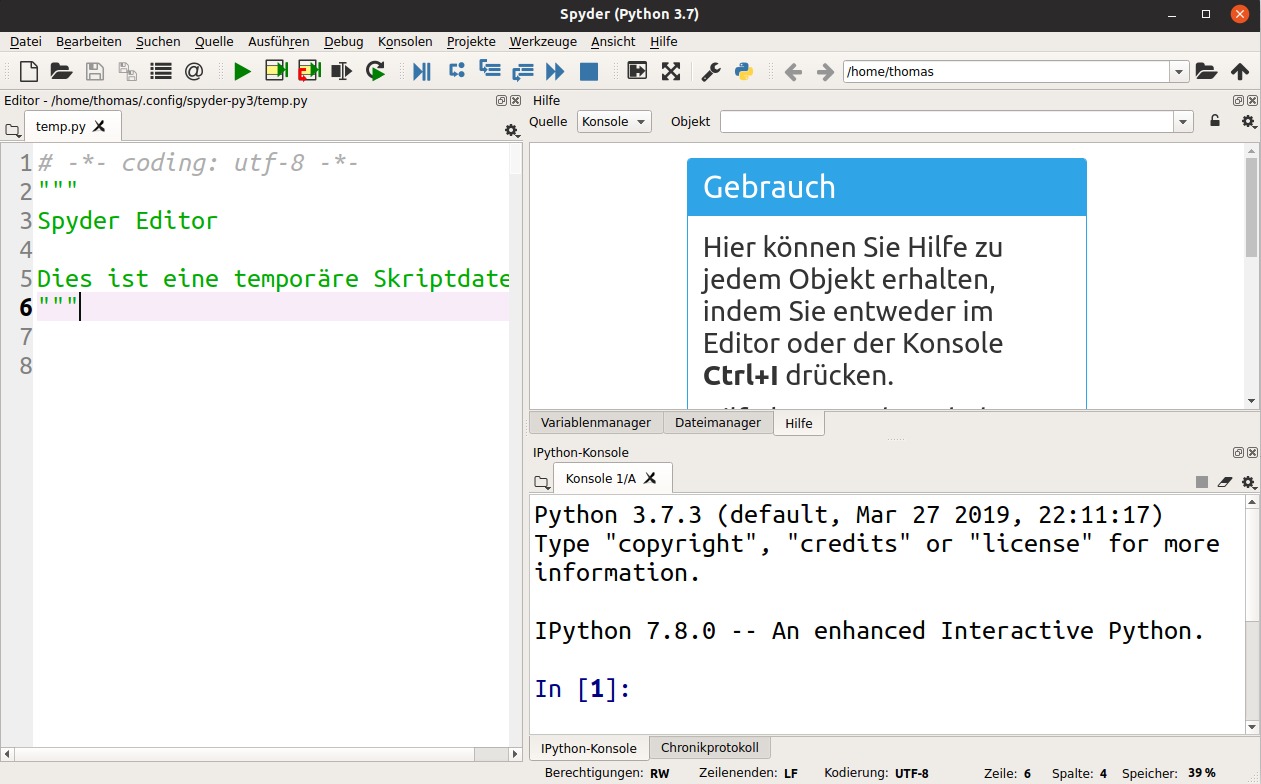
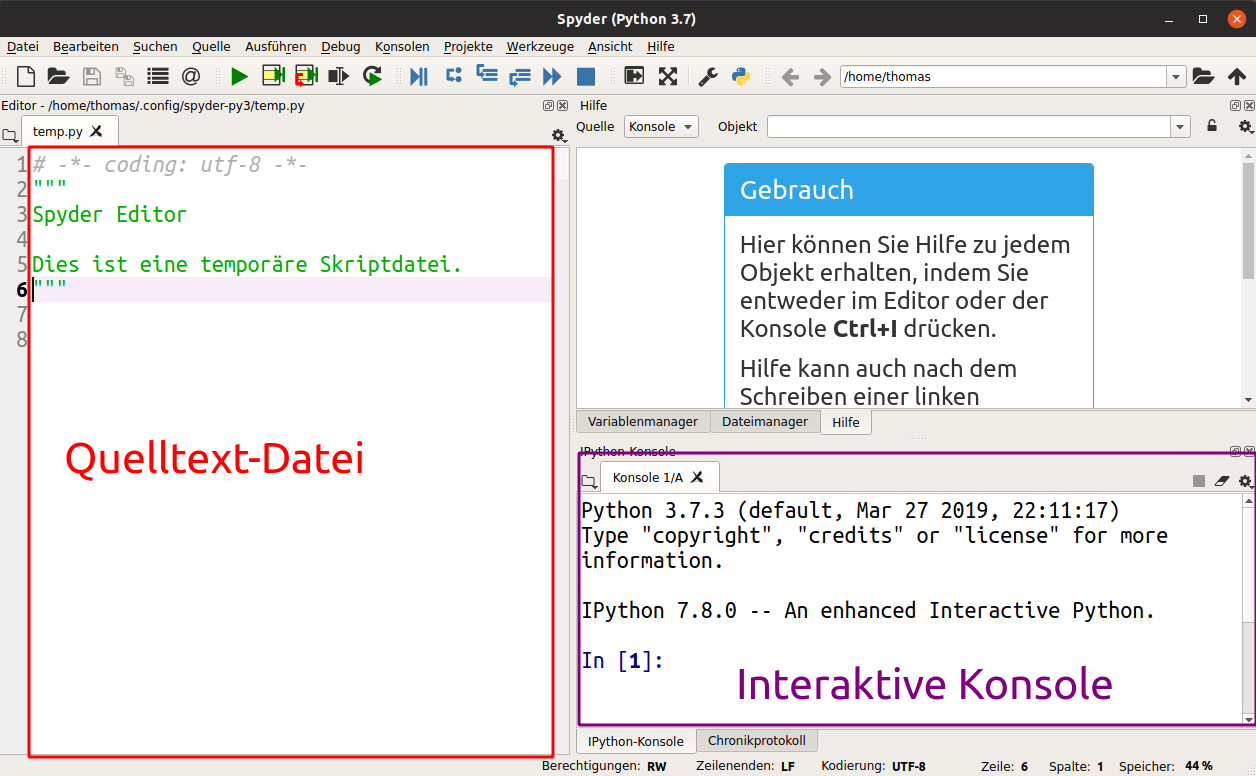
Eigenes Einführungskapitel zum Spyder-Terminal

Changed region(s): [[0.0, 0.0, 1.0, 1.0], [0.621, 0.7732, 0.9626, 0.8351], [0.59, 0.866, 0.9005, 0.8969]]

diff --git a/_episodes/01-spyder-ide-konsole.md b/_episodes/01-spyder-ide-konsole.md
@@ -1,0 +1,68 @@
+---
+title: "Spyder IDE und die Python-Konsle"
+teaching: 30
+exercises: 0
+questions:
+- "Was ist eine IDE?"
+- "Wie kann man Python Code ausführen?"
+objectives:
+- "Starten der Spyder IDE"
+- "Umgang mit der Python-Konsole"
+keypoints:
+- "Einfache Ausdrücke können durch die interaktive Eingabe in der Python-Konsole ausgeführt werden."
+- "Folgen von Anweisungen können in Quelltextdateien abgelegt werden."
+---
+
+## Python IDE starten
+
+Nach der Installation sollten Sie unter unter Windows und Mac OS einen Eintrag "Anaconda Navigator" im Startmenü bzw. im Launchpad haben.
+Unter Linux müssen das Programm `anaconda-navigator` ausführen, z.B. unter Ubuntu mit der Tastenkombination <kbd>Alt</kbd>+<kbd>F12</kbd> und dann `anaconda3/bin/anaconda-navigator`.
+
+Der *Anaconda Navigator* bietet verschiedene Programme zum Starten an, mit denen man Python-Programme entwickeln und ausführen kann. 
+In diesem Kurs wollen wir die Integrierte Entwicklungsumgebung (IDE für "Integrated Development Environment") *Spyder* nutzen.
+Klicken Sie auf "Launch" unter dem Eintrag für Spyder um das Programm zu starten.s
+
+![Spyder starten im Anaconda Navigator](../fig/anaconda-launch.png)
+
+Auf der Linken Seite von Anaconda befindet sich eine Texteditor für Quelltext-Dateien von Python.
+Rechts unten ist ein interaktives Terminal (auch „Konsole“ oder „Kommandozeile“ genannt) platziert.
+
+![Spyder IDE Oberfläche](../fig/spyder-ide.png)
+
+## Python-Terminal
+
+Im Python-Terminal können *einzelne Python-Befehle* ausgeführt und getestet werden.
+Z.B. können Sie die folgende Zeichenketten in die Konsole eintipppen und die Eingabetaste drücken
+
+~~~python
+print("Hello World")
+~~~
+Jeder einzelne Befehl, der mit der Eingabetaste abgeschlossen wird kann eine Ausgabe als Text produzieren, der in dem Terminal angezeigt wird sobald der Befehl abgeschlossen ist. 
+Hier z.B. ist die Ausgabe.
+~~~
+Hello World
+~~~
+{: .output}
+
+> ## Übung
+> Geben Sie einen Befehl ein, der die Zeichenkette `Hallo Python` im Terminal anzeigt.
+>> ## Lösung
+>> ~~~python
+>> print("Hallo Python")
+>> ~~~
+> {: .solution}
+{: .challenge}
+
+## Quelltext-Dateien
+
+Python-Programme besteht aber typischerweise aus vielen Anweisungen, die in einer oder mehreren Quelltext-Datei gebündelt werden.
+Ein typischer Arbeitsablauf kann also sein, in der Konsole eine Abfolgen von Befehlen auszuprobieren und diese dann in die Quelltext-Datei zu kopieren.
+
+~~~python
+print("Hello World")
+print("Hallo Python")
+~~~
+
+
+{% include links.md %}
+

diff --git a/_episodes/02-ausdruecke-datentypen-variablen.md b/_episodes/02-ausdruecke-datentypen-variablen.md
@@ -18,35 +18,6 @@ keypoints:
 - "Variablen haben Namen und diese Namen unterscheiden Groß- und Kleinschreibung" 
 ---
 
-## Python starten
-
-Zum Kennenlernen arbeiten wir zunächst nur auf der interaktiven Kommandozeile (Konsole oder Terminal) des Python-Interpreters. Diese wird gestartet, indem wir ein System-Terminal (kann unter Ubuntu z.B. mit dem Shortcut  <kbd>Strg</kbd>+<kbd>Alt</kbd>+<kbd>T</kbd> gestartet werden) öffnen und folgendes eintippen:
-
-~~~bash
-python3
-~~~
-
-
-Das Ergebnis sollte ungefähr so aussehen:
-~~~
-Python 3.6.6 (default, Sep 12 2018, 18:26:19) 
-[GCC 8.0.1 20180414 (experimental) [trunk revision 259383]] on linux
-Type "help", "copyright", "credits" or "license" for more information.
->>>
-~~~
-{: .output}
-
-Die Versionen von Python und GCC werden wahrscheinlich nicht überall identisch sein. Wichtig: Python muss in Version 3.6.x vorliegen.
-
-> ## System-Terminal vs. Python-Terminal 
-> Zuerst wurde das System-Terminal gestartet.
-> Dieses erlaubt es Programme auf dem Computer zu starten.
-> Linux und Windows nutzen verschiedene Arten von Terminals mit verschiedenen Befehlen (MacOS orientiert sich an dem Linux-Terminal): ein Tutorial für alle 3 Betriebssysteme gibt es z.B. hier: [https://tutorial.djangogirls.org/de/intro_to_command_line/](https://tutorial.djangogirls.org/de/intro_to_command_line/).
->
-> Das danach gestartete Python-Terminal ist dagegen ein eigenständiges Programm und verhält sich auch unter  Windows, MacOS und Windows gleich.
-> Im Python-Terminal können Python-Befehle ausgeführt und getestet werden, die System-Terminalbefehle funktionieren hier nicht.
-{: .callout}
-
 
 ## Kommentare und Dokumentation
 
